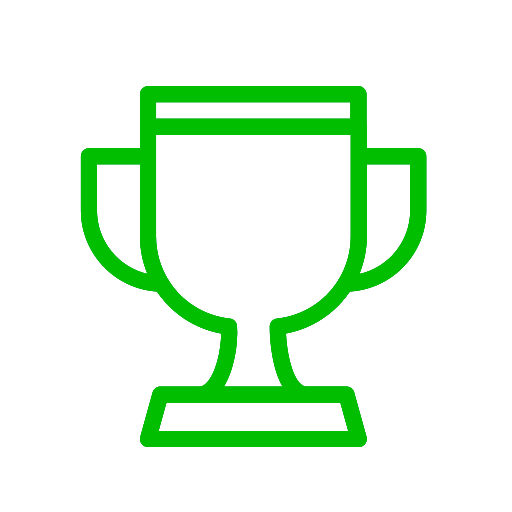
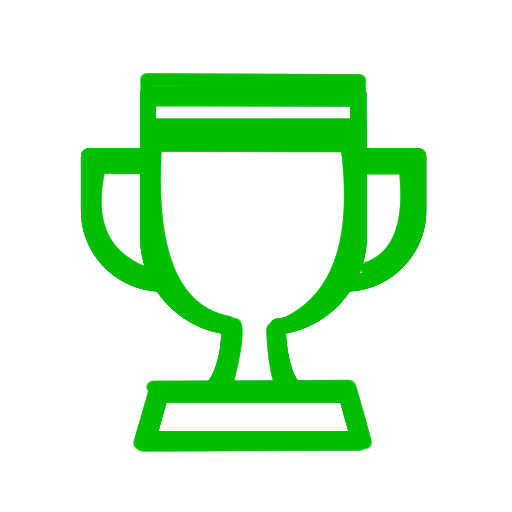
Pagina de register

diff --git a/Register.java b/Register.java
@@ -1,0 +1,277 @@
+import javax.swing.*;
+import javax.swing.border.EmptyBorder;
+import java.awt.*;
+import java.awt.event.*;
+import java.awt.geom.RoundRectangle2D;
+
+public class Register extends JFrame {
+
+    public Register() {
+        // --- CONFIGURACIÓN DE LA VENTANA ---
+        setTitle("Unab Points - Crear cuenta");
+        setSize(1300, 850);
+        setLocationRelativeTo(null);
+        setDefaultCloseOperation(JFrame.EXIT_ON_CLOSE);
+        setResizable(false);
+
+        // --- PANEL PRINCIPAL (Fondo oscuro total) ---
+        JPanel background = new JPanel(new GridBagLayout());
+        background.setBackground(new Color(10, 10, 10));
+        background.setFocusable(true);
+        background.addMouseListener(new MouseAdapter() {
+            @Override
+            public void mousePressed(MouseEvent e) {
+                background.requestFocusInWindow();
+            }
+        });
+
+        // --- CONTENEDOR CENTRAL ---
+        JPanel container = new JPanel(new GridLayout(1, 2));
+        container.setPreferredSize(new Dimension(1150, 720));
+        container.setBackground(new Color(5, 8, 15));
+        container.setBorder(BorderFactory.createLineBorder(new Color(60, 60, 60), 1));
+
+        // --- PANEL IZQUIERDO (igual que Login) ---
+        JPanel leftPanel = new JPanel(new BorderLayout());
+        leftPanel.setBackground(new Color(4, 8, 12));
+        leftPanel.setBorder(new EmptyBorder(40, 40, 100, 40));
+
+        JPanel centerContainer = new JPanel(new GridBagLayout());
+        centerContainer.setOpaque(false);
+        GridBagConstraints gbc = new GridBagConstraints();
+        gbc.gridx = 0;
+        gbc.fill = GridBagConstraints.HORIZONTAL;
+
+        // Logo principal
+        ImageIcon logoIcon = new ImageIcon("Icons/AppLogo.jpeg");
+        Image scaledLogo = logoIcon.getImage().getScaledInstance(400, -1, Image.SCALE_SMOOTH);
+        JLabel logoLabel = new JLabel(new ImageIcon(scaledLogo), SwingConstants.CENTER);
+        gbc.gridy = 0;
+        centerContainer.add(logoLabel, gbc);
+
+        // Subtítulo
+        JLabel subTitle = new JLabel(
+                "<html><div style='text-align: center;'>Tu app de apuestas y<br>minijuegos favoritos</div></html>",
+                SwingConstants.CENTER);
+        subTitle.setForeground(new Color(180, 180, 180));
+        subTitle.setFont(new Font("SansSerif", Font.PLAIN, 18));
+        gbc.gridy = 1;
+        gbc.insets = new Insets(20, 0, 0, 0);
+        centerContainer.add(subTitle, gbc);
+
+        leftPanel.add(centerContainer, BorderLayout.CENTER);
+
+        // Iconos de características
+        JPanel featuresPanel = new JPanel(new GridLayout(1, 4, 10, 0));
+        featuresPanel.setOpaque(false);
+        featuresPanel.add(new FeatureIcon("Segura", "Icons/shield.png"));
+        featuresPanel.add(new FeatureIcon("Confiable", "Icons/trophy.png"));
+        featuresPanel.add(new FeatureIcon("Rápida", "Icons/thunder.png"));
+        featuresPanel.add(new FeatureIcon("Premios", "Icons/gift.png"));
+        leftPanel.add(featuresPanel, BorderLayout.SOUTH);
+
+        // --- PANEL DERECHO (Formulario de Registro) ---
+        JPanel rightPanel = new JPanel(null);
+        rightPanel.setBackground(new Color(9, 12, 16));
+        rightPanel.setFocusable(true);
+        rightPanel.addMouseListener(new MouseAdapter() {
+            @Override
+            public void mousePressed(MouseEvent e) {
+                rightPanel.requestFocusInWindow();
+            }
+        });
+
+        // Título
+        JLabel title = new JLabel("¡Crea tu cuenta!", SwingConstants.CENTER);
+        title.setForeground(Color.WHITE);
+        title.setFont(new Font("SansSerif", Font.BOLD, 34));
+        title.setBounds(75, 20, 430, 45);
+        rightPanel.add(title);
+
+        // Subtítulo
+        JLabel subtitle = new JLabel("Empieza a jugar y ganar ahora", SwingConstants.CENTER);
+        subtitle.setForeground(new Color(180, 180, 180));
+        subtitle.setFont(new Font("SansSerif", Font.PLAIN, 16));
+        subtitle.setBounds(75, 65, 430, 25);
+        rightPanel.add(subtitle);
+
+        // Campo: Nombre completo
+        ImageIcon userIcon = new ImageIcon("Icons/user.png");
+        Image scaledUser = userIcon.getImage().getScaledInstance(22, 22, Image.SCALE_SMOOTH);
+        RoundedTextField nameField = new RoundedTextField("Ingresa tu nombre completo", new ImageIcon(scaledUser));
+        nameField.setBounds(70, 105, 430, 55);
+        rightPanel.add(nameField);
+
+        // Campo: Correo
+        ImageIcon mailIcon = new ImageIcon("Icons/email.png");
+        Image scaledMail = mailIcon.getImage().getScaledInstance(22, 22, Image.SCALE_SMOOTH);
+        RoundedTextField emailField = new RoundedTextField("Ingresa tu correo", new ImageIcon(scaledMail));
+        emailField.setBounds(70, 175, 430, 55);
+        rightPanel.add(emailField);
+
+        // Campo: Nombre de usuario
+        Image scaledUser2 = userIcon.getImage().getScaledInstance(22, 22, Image.SCALE_SMOOTH);
+        RoundedTextField usernameField = new RoundedTextField("Crea tu nombre de usuario", new ImageIcon(scaledUser2));
+        usernameField.setBounds(70, 245, 430, 55);
+        rightPanel.add(usernameField);
+
+        // Campo: Contraseña
+        ImageIcon lockIcon = new ImageIcon("Icons/lock.png");
+        Image scaledLock = lockIcon.getImage().getScaledInstance(22, 22, Image.SCALE_SMOOTH);
+        RoundedPasswordField passField = new RoundedPasswordField("Ingresa tu contraseña", new ImageIcon(scaledLock));
+        passField.setBounds(70, 315, 430, 55);
+        rightPanel.add(passField);
+
+        // Campo: Repetir contraseña
+        Image scaledLock2 = lockIcon.getImage().getScaledInstance(22, 22, Image.SCALE_SMOOTH);
+        RoundedPasswordField confirmPassField = new RoundedPasswordField("Repite tu contraseña",
+                new ImageIcon(scaledLock2));
+        confirmPassField.setBounds(70, 385, 430, 55);
+        rightPanel.add(confirmPassField);
+
+        // Checkbox: Términos y condiciones
+        CheckboxTerms checkboxPanel = new CheckboxTerms();
+        checkboxPanel.setBounds(70, 455, 430, 30);
+        rightPanel.add(checkboxPanel);
+
+        // BOTÓN: Crear cuenta
+        RoundedButton registerBtn = new RoundedButton("Crear cuenta");
+        registerBtn.setBounds(70, 500, 430, 55);
+        rightPanel.add(registerBtn);
+
+        // SECCIÓN: Social Login
+        SeparatorPanel separator = new SeparatorPanel("O regístrate con");
+        separator.setBounds(70, 570, 430, 30);
+        rightPanel.add(separator);
+
+        // Botón: Google
+        SocialButton googleBtn = new SocialButton("Google", "Icons/google.png");
+        googleBtn.setBounds(70, 615, 205, 55);
+        rightPanel.add(googleBtn);
+
+        // Botón: Facebook
+        SocialButton facebookBtn = new SocialButton("Facebook", "Icons/facebook.png");
+        facebookBtn.setBounds(295, 615, 205, 55);
+        rightPanel.add(facebookBtn);
+
+        // Texto: ¿Ya tienes cuenta? Inicia sesión
+        JPanel loginLinkPanel = new JPanel(new FlowLayout(FlowLayout.CENTER, 4, 0));
+        loginLinkPanel.setOpaque(false);
+        loginLinkPanel.setBounds(70, 685, 430, 25);
+
+        JLabel loginText = new JLabel("¿Ya tienes una cuenta?");
+        loginText.setForeground(new Color(180, 180, 180));
+        loginText.setFont(new Font("SansSerif", Font.PLAIN, 15));
+
+        JLabel loginLink = new JLabel("Inicia sesión");
+        loginLink.setForeground(new Color(29, 200, 35));
+        loginLink.setFont(new Font("SansSerif", Font.BOLD, 15));
+        loginLink.setCursor(new Cursor(Cursor.HAND_CURSOR));
+
+        // Acción: abrir Login y cerrar Register
+        loginLink.addMouseListener(new MouseAdapter() {
+            @Override
+            public void mouseClicked(MouseEvent e) {
+                new Login();
+                dispose();
+            }
+
+            @Override
+            public void mouseEntered(MouseEvent e) {
+                loginLink.setForeground(new Color(22, 163, 74));
+            }
+
+            @Override
+            public void mouseExited(MouseEvent e) {
+                loginLink.setForeground(new Color(29, 200, 35));
+            }
+        });
+
+        loginLinkPanel.add(loginText);
+        loginLinkPanel.add(loginLink);
+        rightPanel.add(loginLinkPanel);
+
+        // Ensamblado final
+        container.add(leftPanel);
+        container.add(rightPanel);
+        background.add(container);
+        add(background);
+
+        setVisible(true);
+    }
+
+    public static void main(String[] args) {
+        SwingUtilities.invokeLater(Register::new);
+    }
+}
+
+// ─────────────────────────────────────────────────────────────────────────────
+// Checkbox personalizado para términos y condiciones
+// ─────────────────────────────────────────────────────────────────────────────
+class CheckboxTerms extends JPanel {
+    private boolean checked = false;
+    private final int BOX_SIZE = 18;
+
+    public CheckboxTerms() {
+        setOpaque(false);
+        setLayout(null);
+        setCursor(new Cursor(Cursor.HAND_CURSOR));
+
+        // Etiqueta "Acepto los"
+        JLabel textLabel = new JLabel("Acepto los");
+        textLabel.setForeground(new Color(180, 180, 180));
+        textLabel.setFont(new Font("SansSerif", Font.PLAIN, 15));
+        textLabel.setBounds(10 + BOX_SIZE + 10, 0, 90, BOX_SIZE + 4);
+        add(textLabel);
+
+        // Etiqueta "términos y condiciones" en verde
+        JLabel termsLabel = new JLabel("términos y condiciones");
+        termsLabel.setForeground(new Color(29, 200, 35));
+        termsLabel.setFont(new Font("SansSerif", Font.BOLD, 15));
+        termsLabel.setBounds(10 + BOX_SIZE + 90, 0, 200, BOX_SIZE + 4);
+        add(termsLabel);
+
+        // Click en todo el panel para marcar/desmarcar
+        addMouseListener(new MouseAdapter() {
+            @Override
+            public void mouseClicked(MouseEvent e) {
+                checked = !checked;
+                repaint();
+            }
+        });
+    }
+
+    public boolean isChecked() {
+        return checked;
+    }
+
+    @Override
+    protected void paintComponent(Graphics g) {
+        super.paintComponent(g);
+        Graphics2D g2 = (Graphics2D) g.create();
+        g2.setRenderingHint(RenderingHints.KEY_ANTIALIASING, RenderingHints.VALUE_ANTIALIAS_ON);
+
+        int y = (getHeight() - BOX_SIZE) / 2;
+        int x = 10; // Margen izquierdo para alinear con los campos
+
+        // Fondo del checkbox
+        g2.setColor(checked ? new Color(29, 200, 35) : new Color(15, 18, 25));
+        g2.fillRoundRect(x, y, BOX_SIZE, BOX_SIZE, 6, 6);
+
+        // Borde
+        g2.setColor(checked ? new Color(29, 200, 35) : new Color(80, 80, 80));
+        g2.setStroke(new BasicStroke(1.5f));
+        g2.drawRoundRect(x, y, BOX_SIZE - 1, BOX_SIZE - 1, 6, 6);
+
+        // Checkmark
+        if (checked) {
+            g2.setColor(Color.WHITE);
+            g2.setStroke(new BasicStroke(2.2f, BasicStroke.CAP_ROUND, BasicStroke.JOIN_ROUND));
+            int[] xPoints = { x + 3, x + 7, x + BOX_SIZE - 3 };
+            int[] yPoints = { y + BOX_SIZE / 2, y + BOX_SIZE - 4, y + 4 };
+            g2.drawPolyline(xPoints, yPoints, 3);
+        }
+
+        g2.dispose();
+    }
+}

diff --git a/Login.java b/Login.java
@@ -115,7 +115,7 @@ public class Login extends JFrame {
 
                 // Campo: Usuario (con icono)
                 ImageIcon userIcon = new ImageIcon("Icons/user.png");
-                Image scaledUser = userIcon.getImage().getScaledInstance(22, -1, Image.SCALE_SMOOTH);
+                Image scaledUser = userIcon.getImage().getScaledInstance(22, 22, Image.SCALE_SMOOTH);
                 RoundedTextField userField = new RoundedTextField("Ingresa tu correo o usuario",
                                 new ImageIcon(scaledUser));
                 userField.setBounds(70, 170, 430, 55);
@@ -130,7 +130,7 @@ public class Login extends JFrame {
 
                 // Campo: Contraseña (con icono)
                 ImageIcon lockIcon = new ImageIcon("Icons/lock.png");
-                Image scaledLock = lockIcon.getImage().getScaledInstance(22, -1, Image.SCALE_SMOOTH);
+                Image scaledLock = lockIcon.getImage().getScaledInstance(22, 22, Image.SCALE_SMOOTH);
                 RoundedPasswordField passField = new RoundedPasswordField("Ingresa tu contraseña",
                                 new ImageIcon(scaledLock));
                 passField.setBounds(70, 280, 430, 55);
@@ -162,6 +162,43 @@ public class Login extends JFrame {
                 SocialButton facebookBtn = new SocialButton("Facebook", "Icons/facebook.png");
                 facebookBtn.setBounds(295, 540, 205, 55);
                 rightPanel.add(facebookBtn);
+
+                // Texto: ¿No tienes cuenta? Regístrate
+                JPanel registerLinkPanel = new JPanel(new FlowLayout(FlowLayout.CENTER, 4, 0));
+                registerLinkPanel.setOpaque(false);
+                registerLinkPanel.setBounds(70, 620, 430, 25);
+
+                JLabel registerText = new JLabel("¿No tienes una cuenta?");
+                registerText.setForeground(new Color(180, 180, 180));
+                registerText.setFont(new Font("SansSerif", Font.PLAIN, 15));
+
+                JLabel registerLink = new JLabel("Regístrate");
+                registerLink.setForeground(new Color(29, 200, 35));
+                registerLink.setFont(new Font("SansSerif", Font.BOLD, 15));
+                registerLink.setCursor(new Cursor(Cursor.HAND_CURSOR));
+
+                // Acción: abrir Register y cerrar Login
+                registerLink.addMouseListener(new MouseAdapter() {
+                        @Override
+                        public void mouseClicked(MouseEvent e) {
+                                new Register();
+                                dispose();
+                        }
+
+                        @Override
+                        public void mouseEntered(MouseEvent e) {
+                                registerLink.setForeground(new Color(22, 163, 74));
+                        }
+
+                        @Override
+                        public void mouseExited(MouseEvent e) {
+                                registerLink.setForeground(new Color(29, 200, 35));
+                        }
+                });
+
+                registerLinkPanel.add(registerText);
+                registerLinkPanel.add(registerLink);
+                rightPanel.add(registerLinkPanel);
 
                 // Ensamblado final
                 container.add(leftPanel);
@@ -319,7 +356,9 @@ class FeatureIcon extends JPanel {
 
                 try {
                         ImageIcon rawIcon = new ImageIcon(iconPath);
-                        Image scaled = rawIcon.getImage().getScaledInstance(45, 45, Image.SCALE_SMOOTH);
+                        // El escudo suele verse más grande, así que le damos un tamaño menor que a los otros
+                        int size = iconPath.contains("shield") ? 40 : 48;
+                        Image scaled = rawIcon.getImage().getScaledInstance(size, size, Image.SCALE_SMOOTH);
                         JLabel iconLabel = new JLabel(new ImageIcon(scaled));
                         iconLabel.setAlignmentX(Component.CENTER_ALIGNMENT);
                         add(iconLabel);
@@ -469,7 +508,7 @@ class RoundedPasswordField extends JPasswordField {
                 try {
                         ImageIcon rawIcon = new ImageIcon("Icons/password_hide.png");
                         eyeIcon = new ImageIcon(
-                                        rawIcon.getImage().getScaledInstance(EYE_ICON_SIZE, -1, Image.SCALE_SMOOTH));
+                                        rawIcon.getImage().getScaledInstance(EYE_ICON_SIZE, EYE_ICON_SIZE, Image.SCALE_SMOOTH));
                 } catch (Exception e) {
                         System.err.println("No se pudo cargar el icono Icons/password_hide.png");
                 }
